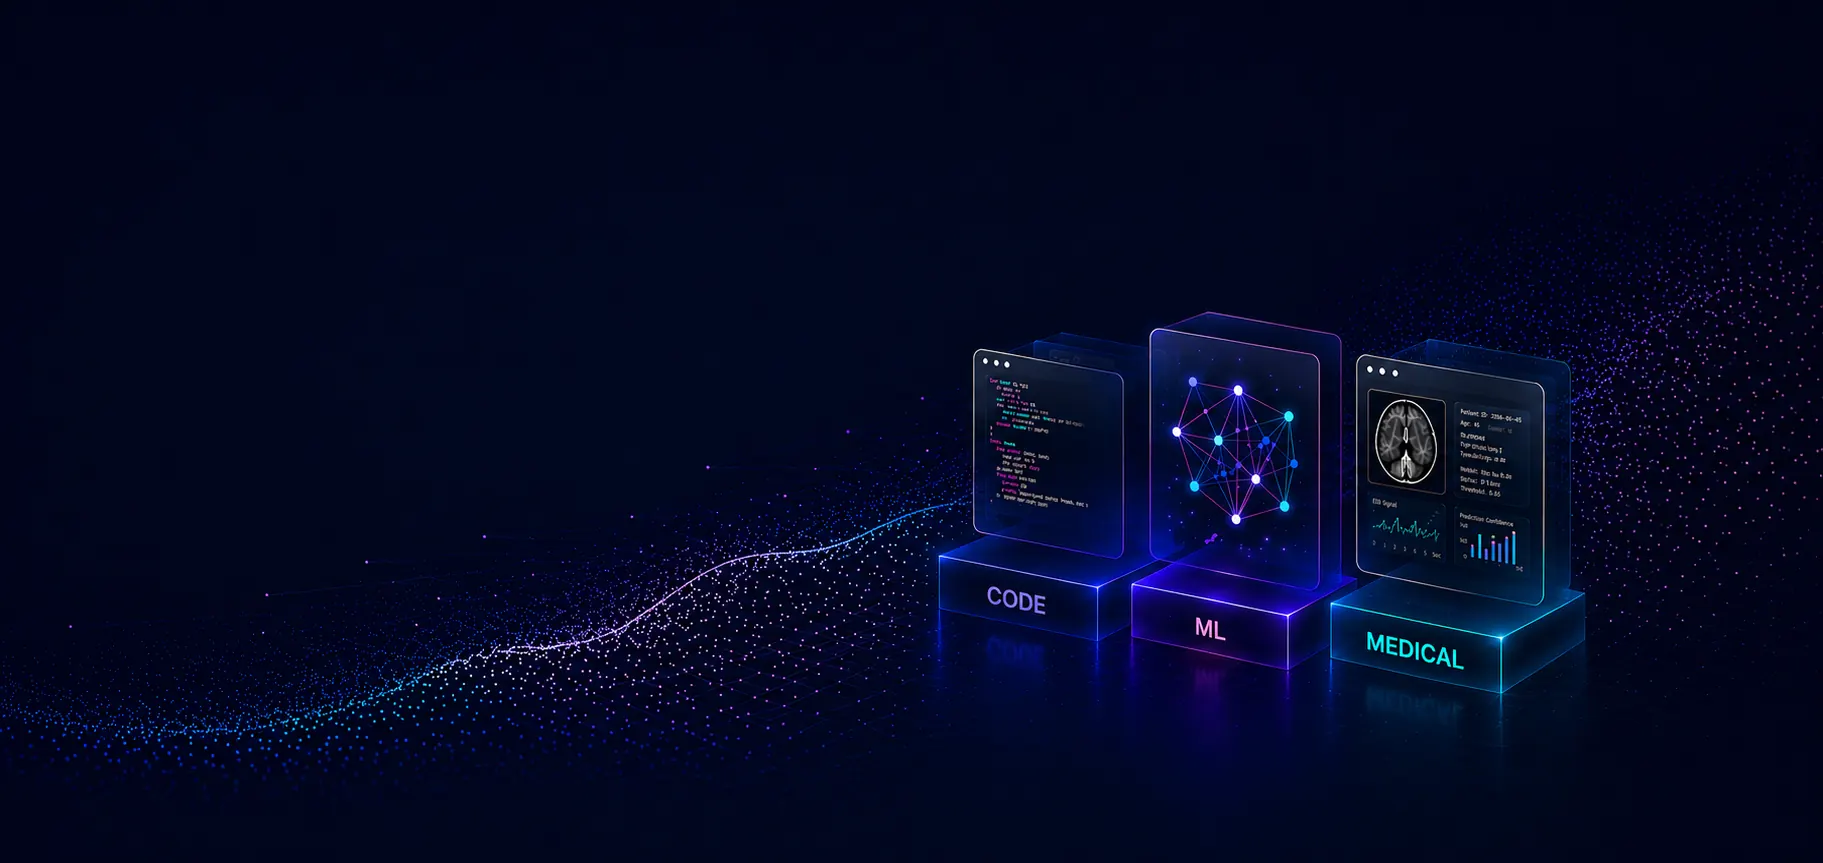
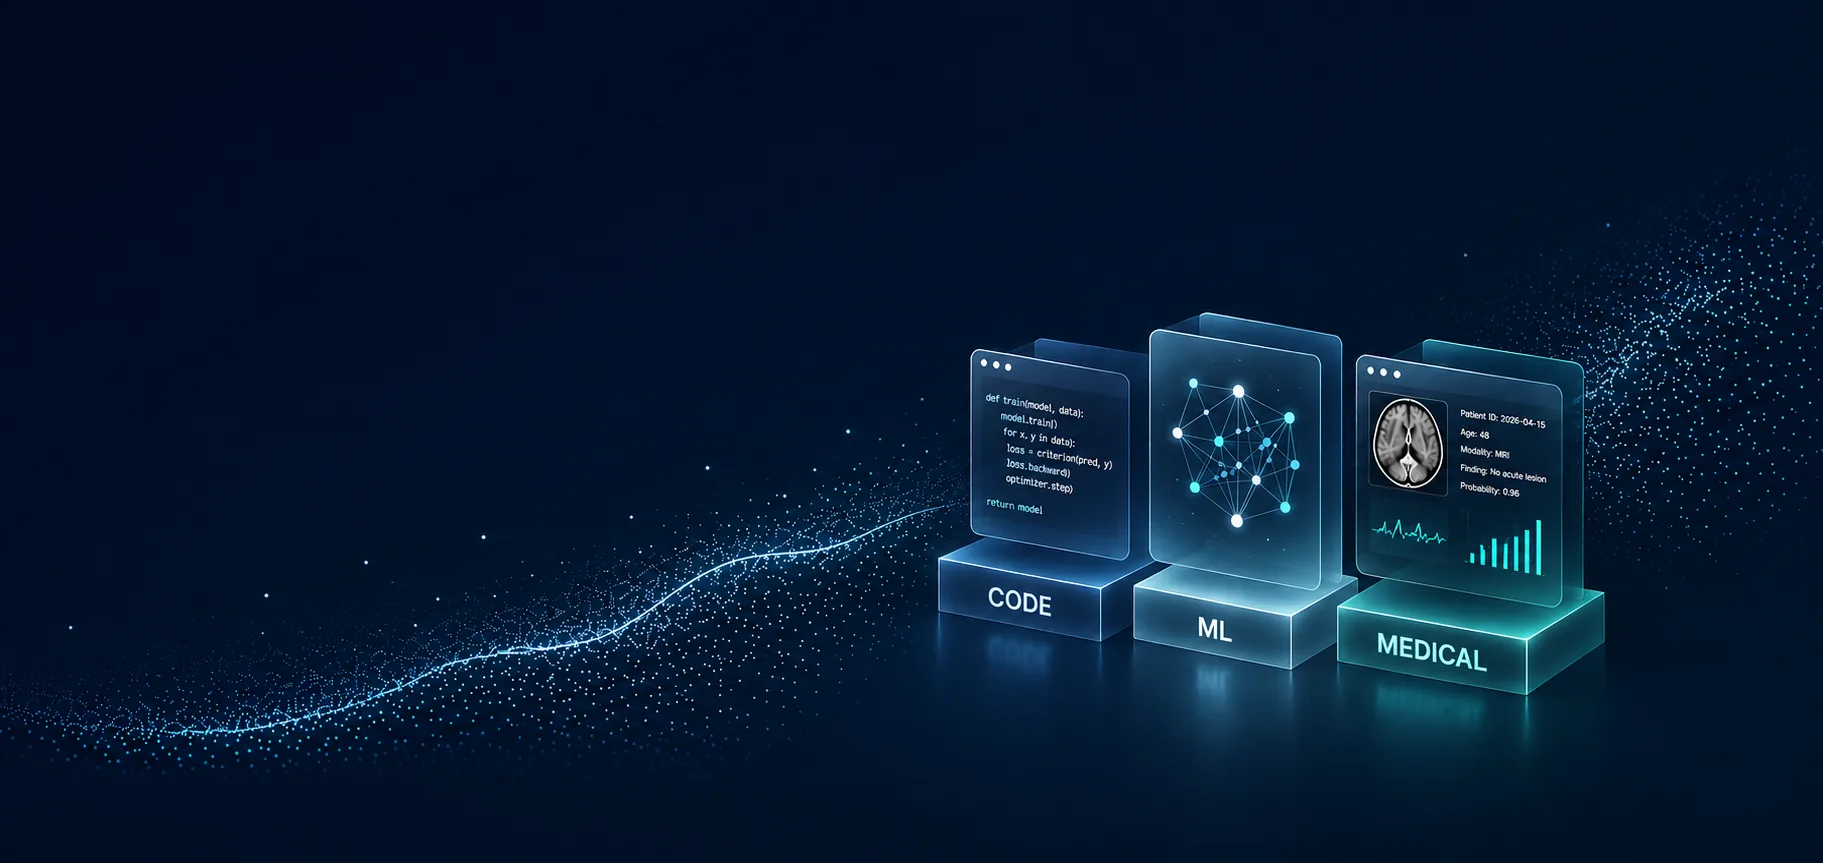
Refine homepage colors and simplify PLML branding

Changed region(s): [[0.0, 0.241, 1.0, 0.9038], [0.983, 0.5122, 1.0, 0.5423], [0.9216, 0.5423, 0.9523, 0.5724]]

diff --git a/_styles/home.scss b/_styles/home.scss
@@ -23,16 +23,6 @@ $home-research-overlap: 118px;
   }
 }
 
-.home-section-label {
-  margin: 0 0 6px 2px;
-  color: var(--gray);
-  font-family: var(--code);
-  font-size: 0.82rem;
-  font-weight: var(--semi-bold);
-  letter-spacing: 0.16em;
-  text-transform: uppercase;
-}
-
 .page-shell[data-page="/"] > section:first-of-type {
   overflow: visible;
   background:
@@ -46,9 +36,9 @@ $home-research-overlap: 118px;
 }
 
 .home-hero {
-  --hero-art-size: 1650px;
-  --hero-art-x: min(calc(50vw - 820px), calc(100vw - 1450px));
-  --hero-art-y: 90%;
+  --hero-art-size: 1550px;
+  --hero-art-x: min(calc(50vw - 770px), calc(100vw - 1450px));
+  --hero-art-y: 100%;
 
   position: relative;
   z-index: 1;
@@ -104,15 +94,6 @@ $home-research-overlap: 118px;
   max-width: 600px;
 }
 
-.home-hero .home-section-label {
-  max-width: 42ch;
-  color: var(--hero-link);
-  font-family: var(--heading);
-  font-size: 0.98rem;
-  letter-spacing: 0;
-  text-transform: none;
-}
-
 .home-hero-title {
   margin: 0;
   color: var(--hero-title);
@@ -125,16 +106,12 @@ $home-research-overlap: 118px;
 }
 
 .home-hero-title span {
-  color: var(--brand-gradient-end);
-  background: var(--brand-gradient);
-  -webkit-background-clip: text;
-  background-clip: text;
-  -webkit-text-fill-color: transparent;
+  color: #5B98F2;
 }
 
 .home-hero-tagline {
   margin: 18px 0 0;
-  color: var(--hero-accent);
+  color: #a5c7ed;
   font-size: 1.15rem;
   font-weight: var(--semi-bold);
 }
@@ -164,9 +141,15 @@ $home-research-overlap: 118px;
 }
 
 .home-hero-actions .button:not([data-style="bare"]) {
-  border-color: rgba(130, 143, 255, 0.38);
-  background: var(--brand-gradient-cta);
-  box-shadow: 0 10px 38px rgba(95, 104, 255, 0.34);
+  border-color: #4f8be5;
+  background: #3478d4;
+  box-shadow: 0 4px 14px rgba(22, 66, 125, 0.2);
+
+  &:hover,
+  &:focus-visible {
+    border-color: #79aafa;
+    background: #2868be;
+  }
 }
 
 .home-hero-actions .button[data-style="bare"] {
@@ -229,7 +212,7 @@ section[data-size="full"] > .home-research-overview {
   height: 52px;
   border-radius: var(--radius-sm);
   background: color-mix(in srgb, var(--primary) 12%, var(--surface-raised) 88%);
-  color: color-mix(in srgb, var(--primary) 72%, #6678ff 28%);
+  color: var(--primary);
   font-size: 1.75rem;
 }
 
@@ -241,7 +224,7 @@ section[data-size="full"] > .home-research-overview {
 .home-research-overview .home-research-kicker {
   margin: 0;
   max-width: none;
-  color: color-mix(in srgb, var(--primary) 62%, #6678ff 38%);
+  color: var(--primary);
   font-family: var(--code);
   font-size: 0.72rem;
   font-weight: var(--semi-bold);
@@ -537,10 +520,6 @@ section[data-size="full"] > .home-research-overview {
   color: #f4f8ff;
 }
 
-[data-dark="true"] .home-hero-title span {
-  color: #849bc2;
-}
-
 [data-dark="true"] .home-hero-lead {
   color: #d0d5dd;
 }
@@ -611,16 +590,16 @@ section[data-size="full"] > .home-research-overview {
 }
 
 :root[data-dark="false"] .home-research-icon {
-  border: 1px solid rgba(89, 119, 255, 0.18);
-  background: #f3f6ff;
-  color: #586dff;
-  box-shadow: 0 8px 18px rgba(74, 96, 180, 0.08);
+  border: 1px solid #dbe7f1;
+  background: #f2f7fb;
+  color: #3978ad;
+  box-shadow: none;
 }
 
 :root[data-dark="false"] .home-research-tags span {
-  border-color: rgba(96, 123, 255, 0.24);
-  background: #f7f8ff;
-  color: #4e5b78;
+  border-color: #dce5ec;
+  background: #f7f9fb;
+  color: #53657a;
 }
 
 .home-news-list .post-excerpt {

diff --git a/_styles/-theme.scss b/_styles/-theme.scss
@@ -15,7 +15,6 @@
   --overlay: rgba(22, 35, 58, 0.09);
   --hero-ink: #020817;
   --hero-link: #84a2ff;
-  --hero-accent: #89a4ff;
   --hero-title: #f8fbff;
   --hero-text: rgba(255, 255, 255, 0.88);
   --footer-background: color-mix(in srgb, var(--hero-ink) 85%, black 15%);
@@ -40,7 +39,6 @@
   --overlay: rgba(0, 0, 0, 0.54);
   --hero-ink: #020817;
   --hero-link: #84a2ff;
-  --hero-accent: #89a4ff;
   --hero-title: #f4f8ff;
   --hero-text: #d0d5dd;
   --footer-background: color-mix(in srgb, var(--hero-ink) 85%, black 15%);
@@ -97,7 +95,6 @@
     var(--brand-gradient-mid) 42%,
     var(--brand-gradient-end) 100%
   );
-  --brand-gradient-cta: linear-gradient(135deg, #3b82f6 0%, #4f8cff 46%, #7aa7ff 100%);
 
   // shared surfaces
   --panel-background:

diff --git a/index.md b/index.md
@@ -104,7 +104,6 @@ header-dark: false
 {% assign featured_publications = site.publications | where: "scope", "international" | sort: "date" | reverse %}
 <div class="home-block reveal-on-scroll">
   <div class="home-block-header reveal-on-scroll">
-    <p class="home-section-label">Research Output</p>
     <div class="home-block-title-row">
       <h2>연구 성과</h2>
       <a class="home-block-title-link" href="{{ 'publications' | relative_url }}">전체 논문 보기</a>
@@ -166,7 +165,6 @@ header-dark: false
 
 <div class="home-news-feed reveal-on-scroll">
   <div class="home-block-header reveal-on-scroll">
-    <p class="home-section-label">Latest News</p>
     <div class="home-block-title-row">
       <h2>최근 소식</h2>
       <a class="home-block-title-link" href="{{ 'news' | relative_url }}">전체 소식 보기</a>
